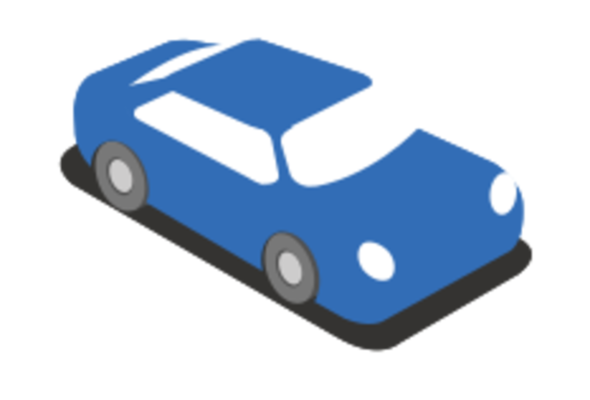
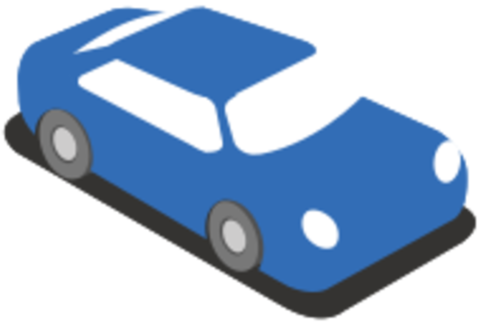
Visuzliation improvments

diff --git a/web_app/templates/index.html b/web_app/templates/index.html
@@ -9,7 +9,7 @@
 
 
    <script>
-       var marker_road
+       var marker_road, marker_merger
   function loadMap() {
     // create the map
     map = new google.maps.Map(document.getElementById("map"), {
@@ -23,7 +23,6 @@
             icon: {
                 url: 'static/antenna.png',
                 scaledSize: new google.maps.Size(80, 80),
-                //anchor: new google.maps.Point(20, 40),
             },
             title: "RSU",
             map: map,
@@ -32,8 +31,8 @@
             position: new google.maps.LatLng(41.703967, -8.797882),
             icon: {
                 url: 'static/car.png',
-                scaledSize: new google.maps.Size(40, 40),
-                anchor: new google.maps.Point(20, 20),
+                scaledSize: new google.maps.Size(26, 26),
+                anchor: new google.maps.Point(7, 13),
             },
             title: "OBU",
             map: map,
@@ -42,18 +41,18 @@
             position: new google.maps.LatLng(41.703771, -8.797723),
             icon: {
                 url: 'static/car.png',
-                scaledSize: new google.maps.Size(40, 40),
-                anchor: new google.maps.Point(20, 20),
+                scaledSize: new google.maps.Size(26, 26),
+                anchor: new google.maps.Point(7, 13),
             },
             title: "OBU",
             map: map,
         });
-            const marker_merger = new google.maps.Marker({
-            position: new google.maps.LatLng(41.703847, -8.797987),
+            marker_merger = new google.maps.Marker({
+            position: new google.maps.LatLng(41.704029, -8.798800),
             icon: {
                 url: 'static/car.png',
-                scaledSize: new google.maps.Size(40, 40),
-                anchor: new google.maps.Point(20, 20),
+                scaledSize: new google.maps.Size(26, 26),
+                anchor: new google.maps.Point(7, 13),
             },
             title: "OBU",
             map: map,
@@ -62,8 +61,8 @@
             position: new google.maps.LatLng(41.703594, -8.797601),
             icon: {
                 url: 'static/car.png',
-                scaledSize: new google.maps.Size(40, 40),
-                anchor: new google.maps.Point(20, 20),
+                scaledSize: new google.maps.Size(26, 26),
+                anchor: new google.maps.Point(7, 13),
             },
             title: "OBU",
             map: map,
@@ -76,7 +75,7 @@
     function updateMarker() {
         $.get('/get_coords',{}, function(json) {
         var LatLng = new google.maps.LatLng(json.lat, json.lon);
-        marker_road.setPosition(LatLng);
+        marker_merger.setPosition(LatLng);
     });
 }
    </script>
